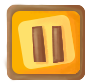
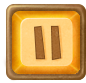
添加光线

diff --git a/js/main.js b/js/main.js
@@ -5,6 +5,8 @@ import Pause from 'sprites/pause'
 import Sight from 'sprites/sight'
 import Hourglass from 'sprites/hourglass'
 import Boxes from 'sprites/boxes'
+import Water from 'sprites/water'
+import Light from 'sprites/light'
 import GameOver from 'sprites/gameover'
 
 
@@ -39,6 +41,8 @@ export default class Main {
 
     this.background = new BackGround(ctxAssociate)
     this.boxes = new Boxes(ctxAssociate)
+    this.water = new Water(ctxAssociate)
+    this.light = new Light(ctxAssociate)
 
     this.score = new Score(ctx)
     this.fixProgress = new FixProgress(ctx)

diff --git a/js/sprites/light.js b/js/sprites/light.js
@@ -1,0 +1,25 @@
+import Sprite from '../interfaces/sprite'
+import Animation from '../interfaces/animation'
+// 最简单的sprite了
+// 除了渲染 什么功能都没有
+const iconPath = 'images/'
+
+let light = new Sprite({
+  imgSrc: `${iconPath}light.png`,
+  x: 0, y: -screenHeight,
+  width: screenWidth, height: screenHeight
+})
+
+
+export default class Light {
+  constructor(ctx) {
+    this.ctx = ctx
+
+    this.light = light
+  }
+
+
+  drawLight(ctx = this.ctx) {
+    this.light.draw(ctx)
+  }
+}

diff --git a/js/sprites/water.js b/js/sprites/water.js
@@ -1,0 +1,26 @@
+import Sprite from '../interfaces/sprite'
+import Animation from '../interfaces/animation'
+
+
+const iconPath = 'images/'
+
+let water = new Sprite({
+  isChain: true,
+  imgSrc: `${iconPath}water.png`,
+  x: 0, y: -screenHeight,
+  width: screenWidth, height: screenHeight
+})
+
+
+export default class Water {
+  constructor(ctx) {
+    this.ctx = ctx
+
+    this.water = water
+  }
+
+
+  drawWater(ctx = this.ctx) {
+    this.water.draw(ctx)
+  }
+}

diff --git a/js/pages/playing.js b/js/pages/playing.js
@@ -4,6 +4,8 @@ let funcs = {
   ctxAssociateRender() {
     this.background.render()
     this.boxes.drawBoxes()
+    this.water.drawWater()
+    this.light.drawLight()
   },
 
   ctxRender() {
